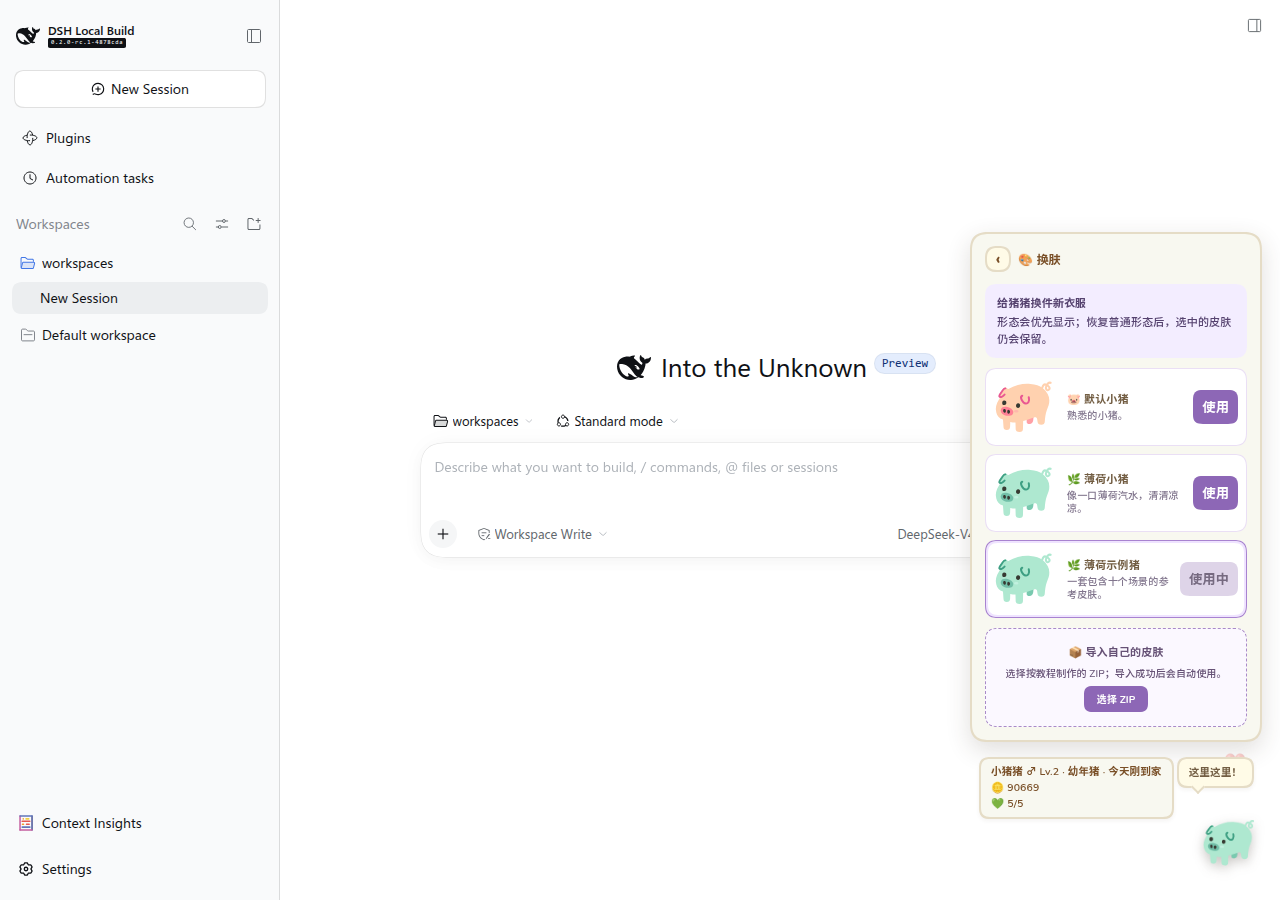
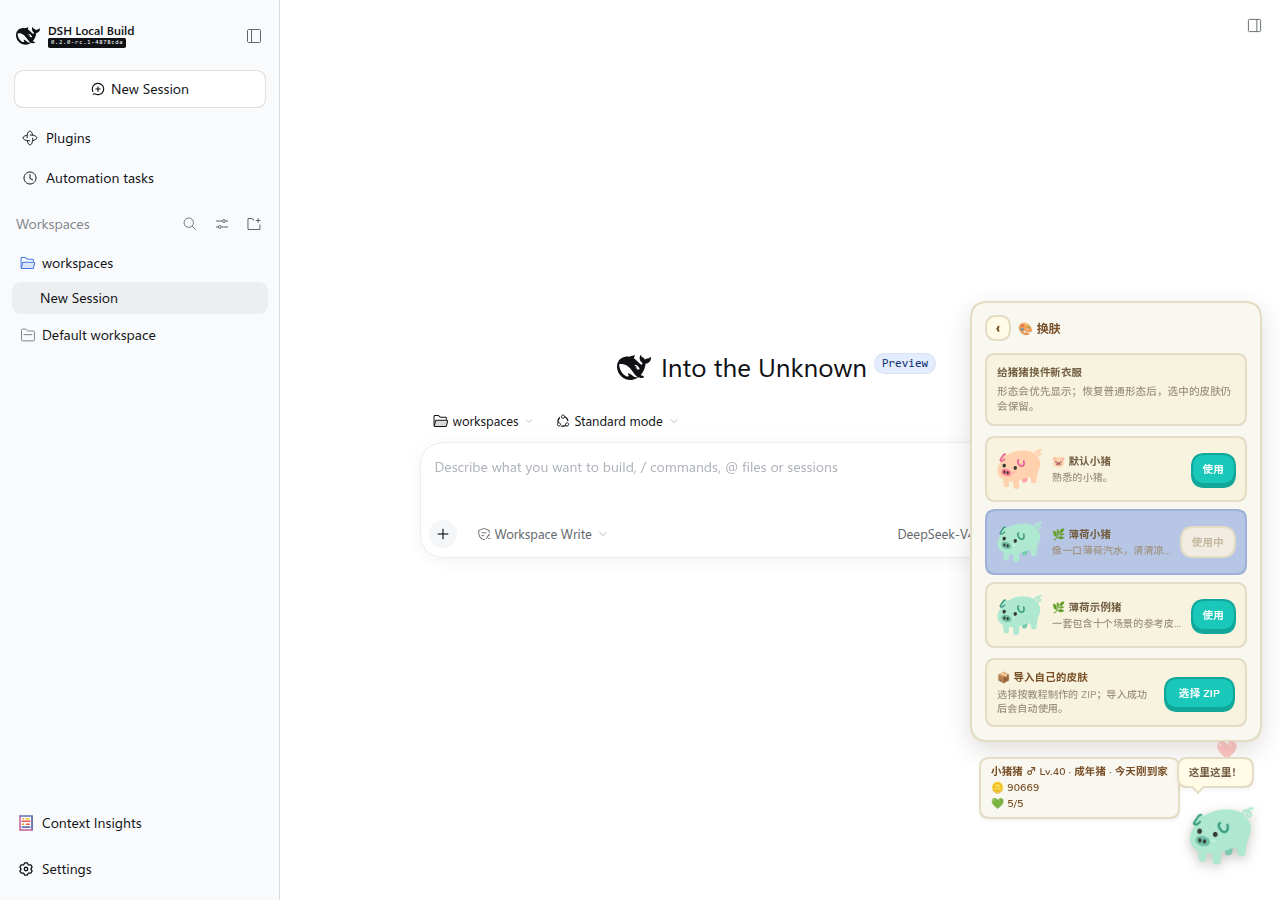
fix(pig): unify skin controls with existing UI

Changed region(s): [[0.75, 0.2489, 1.0, 0.84], [0.9062, 0.9022, 1.0, 0.9644], [0.8125, 0.84, 0.9375, 0.8711]]

diff --git a/client.js b/client.js
@@ -1827,7 +1827,7 @@
 
   // src/client/css-skins.js
   var CSS_SKINS = `
-.dp-skin-intro{display:grid;gap:4px;padding:10px 12px;margin-bottom:10px;border-radius:14px;background:#f3edff;color:#55426f}.dp-skin-intro span{font-size:11px;line-height:1.5}.dp-skin-grid{display:grid;gap:8px}.dp-skin-card{display:grid;grid-template-columns:64px 1fr auto;align-items:center;gap:9px;padding:8px;border:1px solid #eadff5;border-radius:14px;background:#fff}.dp-skin-current{border-color:#a883d0;box-shadow:0 0 0 2px #efe3ff inset}.dp-skin-art{width:60px;height:60px;object-fit:contain}.dp-skin-copy{display:grid;gap:3px;min-width:0}.dp-skin-copy small{color:#81758d;font-size:10px;line-height:1.35}.dp-skin-pick{border:0;border-radius:10px;padding:7px 9px;background:#8d67b6;color:#fff;font-weight:700}.dp-skin-pick:disabled{background:#ded4e8;color:#766a80}.dp-skin-import{display:grid;place-items:center;gap:5px;margin-top:10px;padding:14px 10px;border:1px dashed #a98ac8;border-radius:14px;background:#fbf8ff;color:#665276;text-align:center;cursor:pointer}.dp-skin-import span{font-size:10px}.dp-skin-import input{position:absolute;width:1px;height:1px;opacity:0}.dp-skin-file{display:inline-block!important;padding:5px 12px;border-radius:9px;background:#8d67b6;color:#fff;font-weight:700}
+.dp-skin-intro{display:grid;gap:4px;margin:0 0 10px}.dp-skin-intro span{font-size:10.5px;line-height:1.5;color:var(--ac-text-2)}.dp-skin-grid{display:flex;flex-direction:column;gap:7px}.dp-skin-row{min-height:62px;padding:7px 9px}.dp-skin-current{background:var(--ac-active);border-color:#9db0d6}.dp-skin-art{width:48px;height:48px;flex:none;object-fit:contain}.dp-skin-copy{display:grid;gap:3px}.dp-skin-copy b{font-size:10.5px}.dp-skin-copy small{line-height:1.35}.dp-skin-row>.dp-mini{flex:none;padding-inline:10px}.dp-skin-import{display:grid;grid-template-columns:1fr auto;align-items:center;gap:3px 8px;margin-top:10px;cursor:pointer}.dp-skin-import .dp-pick-head{margin:0}.dp-skin-import>.dp-dim{font-size:10px;line-height:1.4;color:var(--ac-text-2)}.dp-skin-import input{position:absolute;width:1px;height:1px;opacity:0}.dp-skin-file{grid-column:2;grid-row:1/3;display:inline-flex!important;align-items:center;white-space:nowrap}
 `;
 
   // src/client/styles.js
@@ -3252,7 +3252,7 @@
       card.appendChild(el("div", "dp-dex-foot", firstSeen(entry.firstAt) + " \xB7 \u83B7\u5F97 " + entry.count + " \u6B21" + (typeof entry.maxSizeCm === "number" ? " \xB7 \u6700\u5927 " + entry.maxSizeCm.toFixed(1) + " cm" : "")));
       if (section.key === "skins") {
         const current = ui.view.skins.current === entry.key;
-        const pick = button("dp-skin-pick", { "data-dex-skin": entry.key }, function() {
+        const pick = button("dp-mini", { "data-dex-skin": entry.key }, function() {
           ui.send("skin", { skin: entry.key });
         });
         pick.textContent = current ? "\u4F7F\u7528\u4E2D" : "\u4F7F\u7528\u8FD9\u6B3E\u76AE\u80A4";
@@ -3760,7 +3760,7 @@
 
   // src/client/tabs/skins.js
   function renderSkinsTab(ui) {
-    const intro = el("div", "dp-skin-intro");
+    const intro = el("div", "dp-pick dp-skin-intro");
     intro.appendChild(el("b", null, "\u7ED9\u732A\u732A\u6362\u4EF6\u65B0\u8863\u670D"));
     intro.appendChild(el("span", null, "\u5F62\u6001\u4F1A\u4F18\u5148\u663E\u793A\uFF1B\u6062\u590D\u666E\u901A\u5F62\u6001\u540E\uFF0C\u9009\u4E2D\u7684\u76AE\u80A4\u4ECD\u4F1A\u4FDD\u7559\u3002"));
     ui.content.appendChild(intro);
@@ -3770,7 +3770,7 @@
     ui.content.appendChild(importCard(ui));
   }
   function skinCard(ui, skin) {
-    const card = el("div", "dp-skin-card" + (skin.current ? " dp-skin-current" : ""));
+    const card = el("div", "dp-item dp-skin-row" + (skin.current ? " dp-skin-current" : ""));
     const img = (
       /** @type {HTMLImageElement} */
       el("img", "dp-skin-art")
@@ -3778,11 +3778,11 @@
     img.src = ART_URL + skin.art + ".svg";
     img.alt = skin.label;
     card.appendChild(img);
-    const copy = el("span", "dp-skin-copy");
+    const copy = el("span", "dp-grow dp-skin-copy");
     copy.appendChild(el("b", null, skin.emoji + " " + skin.label));
-    copy.appendChild(el("small", null, skin.description || "\u4F5C\u8005\uFF1A" + skin.author));
+    copy.appendChild(el("small", "dp-dim", skin.description || "\u4F5C\u8005\uFF1A" + skin.author));
     card.appendChild(copy);
-    const pick = button("dp-skin-pick", { "data-skin": skin.key }, function() {
+    const pick = button("dp-mini", { "data-skin": skin.key }, function() {
       ui.send("skin", { skin: skin.key });
     });
     pick.textContent = skin.current ? "\u4F7F\u7528\u4E2D" : "\u4F7F\u7528";
@@ -3791,9 +3791,9 @@
     return card;
   }
   function importCard(ui) {
-    const wrap = el("label", "dp-skin-import");
-    wrap.appendChild(el("b", null, "\u{1F4E6} \u5BFC\u5165\u81EA\u5DF1\u7684\u76AE\u80A4"));
-    wrap.appendChild(el("span", null, "\u9009\u62E9\u6309\u6559\u7A0B\u5236\u4F5C\u7684 ZIP\uFF1B\u5BFC\u5165\u6210\u529F\u540E\u4F1A\u81EA\u52A8\u4F7F\u7528\u3002"));
+    const wrap = el("label", "dp-pick dp-tile-card dp-skin-import");
+    wrap.appendChild(el("b", "dp-pick-head", "\u{1F4E6} \u5BFC\u5165\u81EA\u5DF1\u7684\u76AE\u80A4"));
+    wrap.appendChild(el("span", "dp-dim", "\u9009\u62E9\u6309\u6559\u7A0B\u5236\u4F5C\u7684 ZIP\uFF1B\u5BFC\u5165\u6210\u529F\u540E\u4F1A\u81EA\u52A8\u4F7F\u7528\u3002"));
     const input = (
       /** @type {HTMLInputElement} */
       el("input")
@@ -3813,7 +3813,7 @@
       }).catch(() => ui.showBubble("\u5BFC\u5165\u5931\u8D25\uFF1A\u65E0\u6CD5\u8BFB\u53D6\u76AE\u80A4\u5305"));
     });
     wrap.appendChild(input);
-    wrap.appendChild(el("span", "dp-skin-file", "\u9009\u62E9 ZIP"));
+    wrap.appendChild(el("span", "dp-mini dp-skin-file", "\u9009\u62E9 ZIP"));
     return wrap;
   }
 

diff --git a/src/client/tabs/skins.js b/src/client/tabs/skins.js
@@ -5,7 +5,7 @@ import { ART_URL } from '../constants.js'
 import { button, el } from '../dom.js'
 
 export function renderSkinsTab(ui) {
-  const intro = el('div', 'dp-skin-intro')
+  const intro = el('div', 'dp-pick dp-skin-intro')
   intro.appendChild(el('b', null, '给猪猪换件新衣服'))
   intro.appendChild(el('span', null, '形态会优先显示；恢复普通形态后，选中的皮肤仍会保留。'))
   ui.content.appendChild(intro)
@@ -17,16 +17,16 @@ export function renderSkinsTab(ui) {
 }
 
 function skinCard(ui, skin) {
-  const card = el('div', 'dp-skin-card' + (skin.current ? ' dp-skin-current' : ''))
+  const card = el('div', 'dp-item dp-skin-row' + (skin.current ? ' dp-skin-current' : ''))
   const img = /** @type {HTMLImageElement} */ (el('img', 'dp-skin-art'))
   img.src = ART_URL + skin.art + '.svg'
   img.alt = skin.label
   card.appendChild(img)
-  const copy = el('span', 'dp-skin-copy')
+  const copy = el('span', 'dp-grow dp-skin-copy')
   copy.appendChild(el('b', null, skin.emoji + ' ' + skin.label))
-  copy.appendChild(el('small', null, skin.description || ('作者：' + skin.author)))
+  copy.appendChild(el('small', 'dp-dim', skin.description || ('作者：' + skin.author)))
   card.appendChild(copy)
-  const pick = button('dp-skin-pick', { 'data-skin': skin.key }, function () { ui.send('skin', { skin: skin.key }) })
+  const pick = button('dp-mini', { 'data-skin': skin.key }, function () { ui.send('skin', { skin: skin.key }) })
   pick.textContent = skin.current ? '使用中' : '使用'
   pick.disabled = skin.current
   card.appendChild(pick)
@@ -34,9 +34,9 @@ function skinCard(ui, skin) {
 }
 
 function importCard(ui) {
-  const wrap = el('label', 'dp-skin-import')
-  wrap.appendChild(el('b', null, '📦 导入自己的皮肤'))
-  wrap.appendChild(el('span', null, '选择按教程制作的 ZIP；导入成功后会自动使用。'))
+  const wrap = el('label', 'dp-pick dp-tile-card dp-skin-import')
+  wrap.appendChild(el('b', 'dp-pick-head', '📦 导入自己的皮肤'))
+  wrap.appendChild(el('span', 'dp-dim', '选择按教程制作的 ZIP；导入成功后会自动使用。'))
   const input = /** @type {HTMLInputElement} */ (el('input'))
   input.type = 'file'
   input.accept = '.zip,application/zip'
@@ -56,6 +56,6 @@ function importCard(ui) {
       .catch(() => ui.showBubble('导入失败：无法读取皮肤包'))
   })
   wrap.appendChild(input)
-  wrap.appendChild(el('span', 'dp-skin-file', '选择 ZIP'))
+  wrap.appendChild(el('span', 'dp-mini dp-skin-file', '选择 ZIP'))
   return wrap
 }

diff --git a/src/client/css-skins.js b/src/client/css-skins.js
@@ -1,4 +1,4 @@
 // @ts-check
 export const CSS_SKINS = `
-.dp-skin-intro{display:grid;gap:4px;padding:10px 12px;margin-bottom:10px;border-radius:14px;background:#f3edff;color:#55426f}.dp-skin-intro span{font-size:11px;line-height:1.5}.dp-skin-grid{display:grid;gap:8px}.dp-skin-card{display:grid;grid-template-columns:64px 1fr auto;align-items:center;gap:9px;padding:8px;border:1px solid #eadff5;border-radius:14px;background:#fff}.dp-skin-current{border-color:#a883d0;box-shadow:0 0 0 2px #efe3ff inset}.dp-skin-art{width:60px;height:60px;object-fit:contain}.dp-skin-copy{display:grid;gap:3px;min-width:0}.dp-skin-copy small{color:#81758d;font-size:10px;line-height:1.35}.dp-skin-pick{border:0;border-radius:10px;padding:7px 9px;background:#8d67b6;color:#fff;font-weight:700}.dp-skin-pick:disabled{background:#ded4e8;color:#766a80}.dp-skin-import{display:grid;place-items:center;gap:5px;margin-top:10px;padding:14px 10px;border:1px dashed #a98ac8;border-radius:14px;background:#fbf8ff;color:#665276;text-align:center;cursor:pointer}.dp-skin-import span{font-size:10px}.dp-skin-import input{position:absolute;width:1px;height:1px;opacity:0}.dp-skin-file{display:inline-block!important;padding:5px 12px;border-radius:9px;background:#8d67b6;color:#fff;font-weight:700}
+.dp-skin-intro{display:grid;gap:4px;margin:0 0 10px}.dp-skin-intro span{font-size:10.5px;line-height:1.5;color:var(--ac-text-2)}.dp-skin-grid{display:flex;flex-direction:column;gap:7px}.dp-skin-row{min-height:62px;padding:7px 9px}.dp-skin-current{background:var(--ac-active);border-color:#9db0d6}.dp-skin-art{width:48px;height:48px;flex:none;object-fit:contain}.dp-skin-copy{display:grid;gap:3px}.dp-skin-copy b{font-size:10.5px}.dp-skin-copy small{line-height:1.35}.dp-skin-row>.dp-mini{flex:none;padding-inline:10px}.dp-skin-import{display:grid;grid-template-columns:1fr auto;align-items:center;gap:3px 8px;margin-top:10px;cursor:pointer}.dp-skin-import .dp-pick-head{margin:0}.dp-skin-import>.dp-dim{font-size:10px;line-height:1.4;color:var(--ac-text-2)}.dp-skin-import input{position:absolute;width:1px;height:1px;opacity:0}.dp-skin-file{grid-column:2;grid-row:1/3;display:inline-flex!important;align-items:center;white-space:nowrap}
 `

diff --git a/test/skins-client.test.js b/test/skins-client.test.js
@@ -19,10 +19,13 @@ test('C6 main menu has a skin app with switching and ZIP import', async () => {
   app.fire('click')
   const mint = findByAttr(contentOf(dom), 'data-skin', 'mint')
   assert.notEqual(mint, undefined)
+  assert.match(mint.className, /\bdp-mini\b/, '换肤按钮应复用全站标准操作按钮')
+  assert.match(mint.parentNode.className, /\bdp-item\b/, '皮肤应使用背包/列表同款货架行')
   mint.fire('click')
   await settle()
   assert.deepEqual(JSON.parse(calls.at(-1).body), { action: 'skin', skin: 'mint' })
   const input = findByAttr(contentOf(dom), 'data-skin-import', 'zip')
   assert.notEqual(input, undefined)
   assert.match(input.getAttribute('accept'), /zip/)
+  assert.match(input.parentNode.className, /\bdp-pick\b/, '导入区应使用全站标准操作卡')
 })

diff --git a/src/client/tabs/dex.js b/src/client/tabs/dex.js
@@ -195,7 +195,7 @@ function renderDetail(ui, section, entry) {
       + (typeof entry.maxSizeCm === 'number' ? ' · 最大 ' + entry.maxSizeCm.toFixed(1) + ' cm' : '')))
     if (section.key === 'skins') {
       const current = ui.view.skins.current === entry.key
-      const pick = button('dp-skin-pick', { 'data-dex-skin': entry.key }, function () { ui.send('skin', { skin: entry.key }) })
+      const pick = button('dp-mini', { 'data-dex-skin': entry.key }, function () { ui.send('skin', { skin: entry.key }) })
       pick.textContent = current ? '使用中' : '使用这款皮肤'
       pick.disabled = current
       card.appendChild(pick)

diff --git a/docs/tasks/C-round.md b/docs/tasks/C-round.md
@@ -149,6 +149,7 @@ my-skin.zip
 - 3084 实测优先级：选中 `mint-example` 时普通形态使用 `custom-mint-example`；调试切到猪猪王后仍保留 `skin=mint-example`，画面使用 `pig-king`；恢复普通形态后自动回到 `custom-mint-example`。动作文件缺失时客户端按场景清单回落到该皮肤待机图。
 - 老存档由 `ensureSkins(state)` 补 `skin='default'` 和 `customSkins=[]`，未知或损坏的皮肤记录会被清理；存档版本保持 v12，未升级。
 - 教程与参考包：`docs/CUSTOM-SKINS.md`、`docs/examples/skin-pack/`、`docs/examples/skin-pack-example.zip`。截图：`docs/screenshots/c6-skins.png`、`c6-import.png`、`c6-dex-switch.png`；Playwright 使用 `/usr/bin/chromium`，控制台错误和 page error 均为 0。
+- 验收反馈后统一视觉：换肤列表复用背包的 `dp-item` 货架行，使用中状态复用全站选中态，换肤、图鉴和导入按钮统一复用 `dp-mini`，导入区复用 `dp-pick` 操作卡；3084 重新切换并重拍三张截图。
 
 ## C7 胖猪（Codex）
 - 体重分 3 档：正常 / 圆润（≥ 理想体重 ×1.3）/ 胖胖（≥ ×1.6）；理想体重按等级取（Codex 从现有 weightG 增长数据算一张表写进数值单）。
